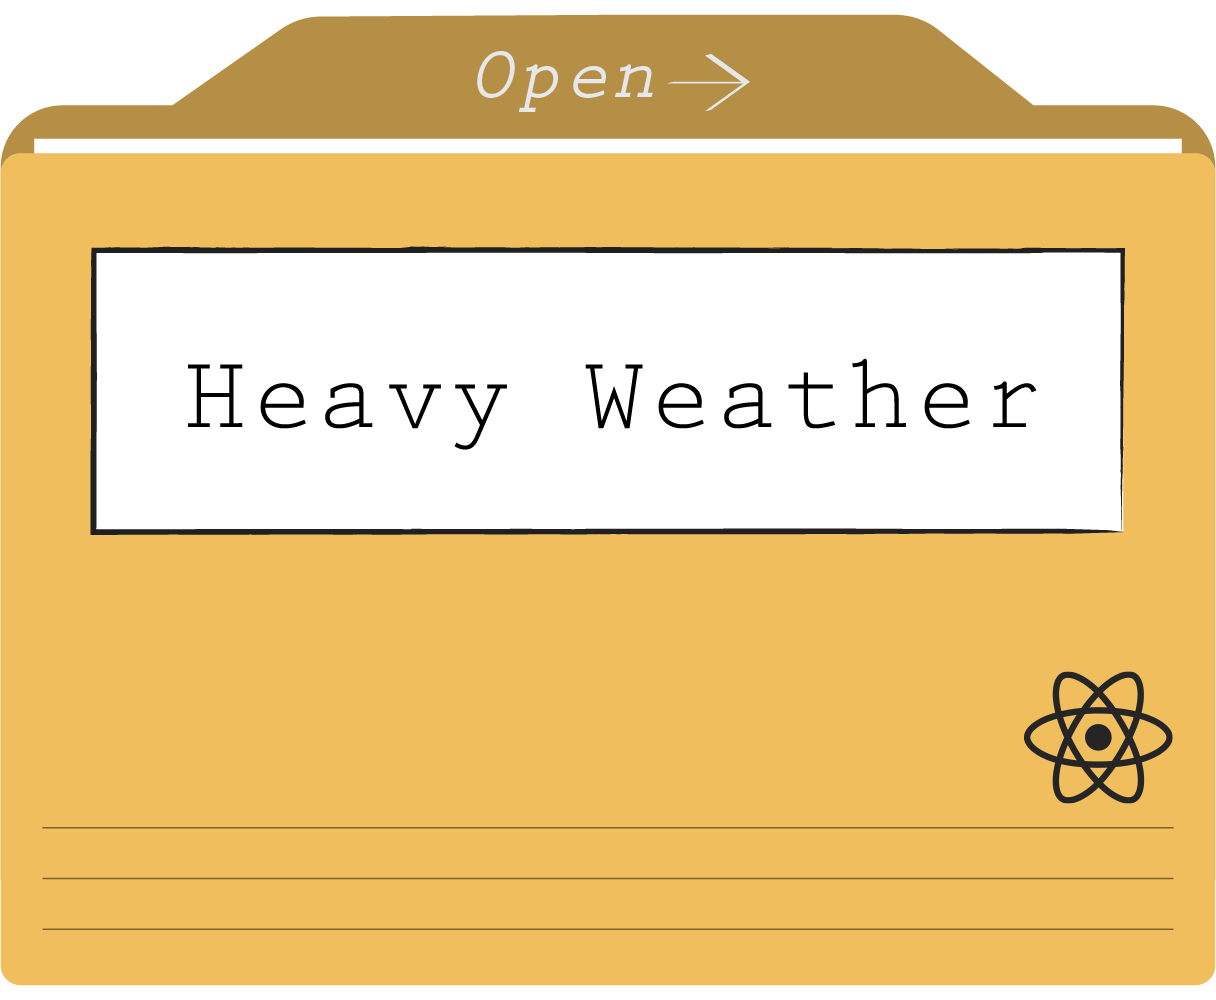
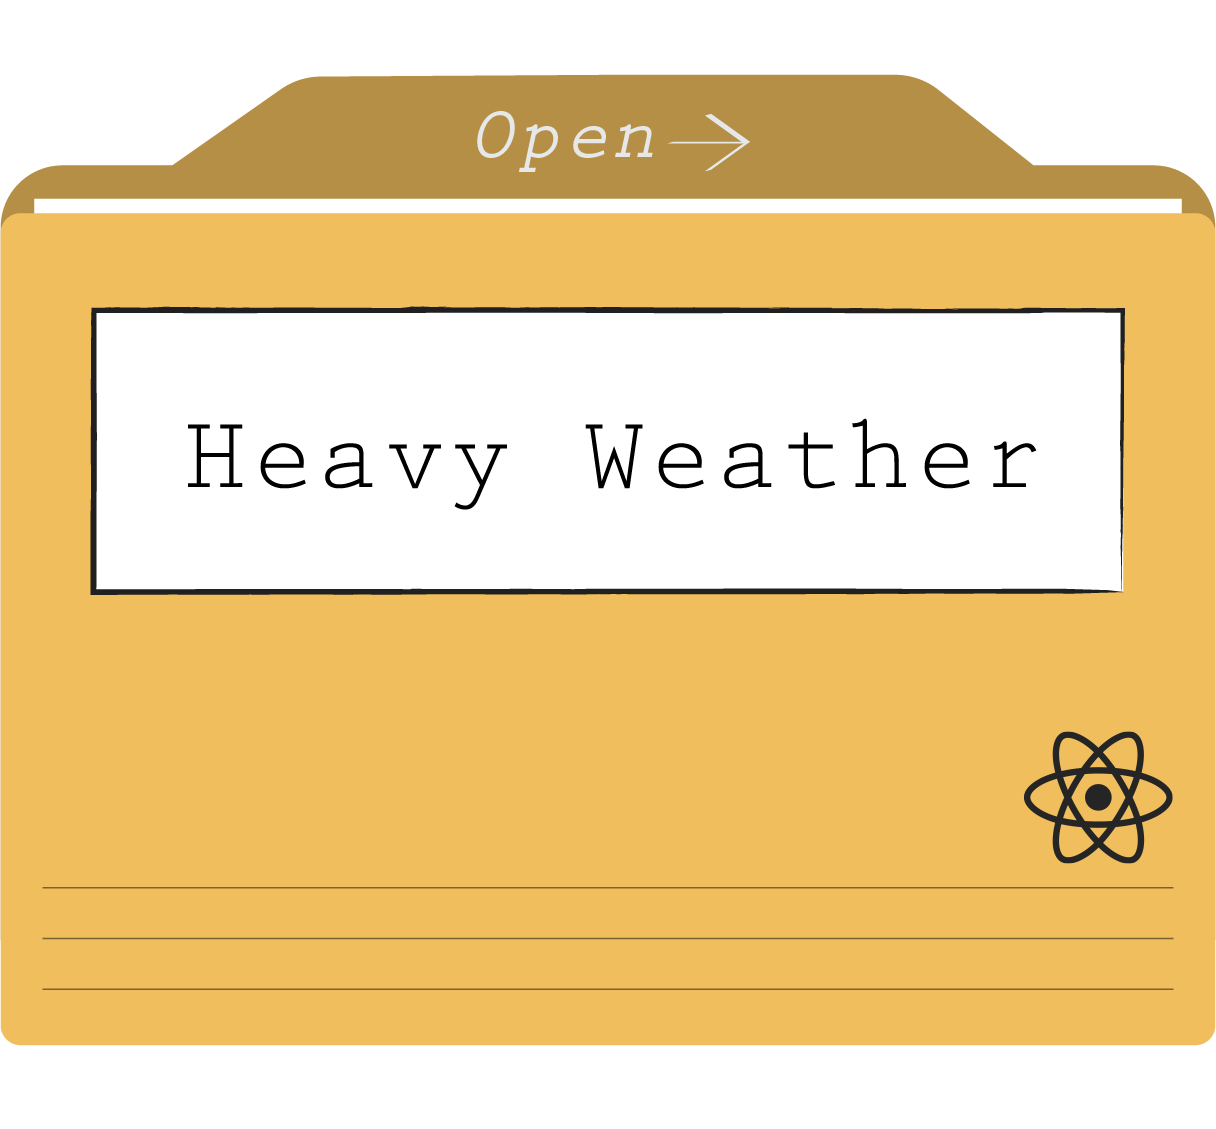
final folder animation implemented. Other updates

diff --git a/components/Projects.js b/components/Projects.js
@@ -83,7 +83,7 @@ export default function About() {
       newArray[e.target.id] = { ...newArray[e.target.id], hide: "folder-content" }
       console.log("hello");
       // Sets target projects source value to Gif to allow animation to run. Timer is set to length of Gif to set source back to image.
-      e.target.src = "FolderGif6fast.gif";
+      e.target.src = "FolderGif7.gif";
       setTimeout(function () {
         e.target.src = `${name}open.png`;
         e.target.name = `${name}open`;
@@ -91,7 +91,7 @@ export default function About() {
         setProjects(newArray);
         // e.target.name = "open";
         // setOpen("folder14.png");
-      }, 480);
+      }, 450);
       // sets className to change img sizing when folder is open
       e.target.className = "projectGif"
     }

diff --git a/styles/projects.css b/styles/projects.css
@@ -120,7 +120,7 @@
 }
 
 .projectGif {
-    max-width: 450px;
+    max-width: 375px;
     /* Width: 80%; */
 }
 
